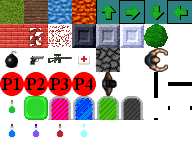
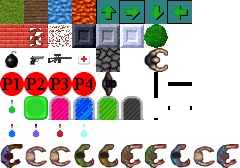
Move zombie sprites to graphics.png

diff --git a/core/src/wge3/model/actors/Zombie.java b/core/src/wge3/model/actors/Zombie.java
@@ -5,17 +5,12 @@
 package wge3.model.actors;
 
 import wge3.model.NonPlayer;
-import static com.badlogic.gdx.Gdx.files;
-import com.badlogic.gdx.graphics.Texture;
-import com.badlogic.gdx.graphics.g2d.Sprite;
 import static com.badlogic.gdx.math.MathUtils.random;
-import wge3.model.Tile;
 
 public final class Zombie extends NonPlayer {
     
     public Zombie() {
-        sprite = new Sprite(new Texture(files.internal("graphics/creatures.png")), random(9)*Tile.size, 0, Tile.size, Tile.size);
-        updateSpriteRotation();
+        setSprite(random(9), 6);
         
         HP.setMax(random(30, 60));
         strength = random(5, 12);
